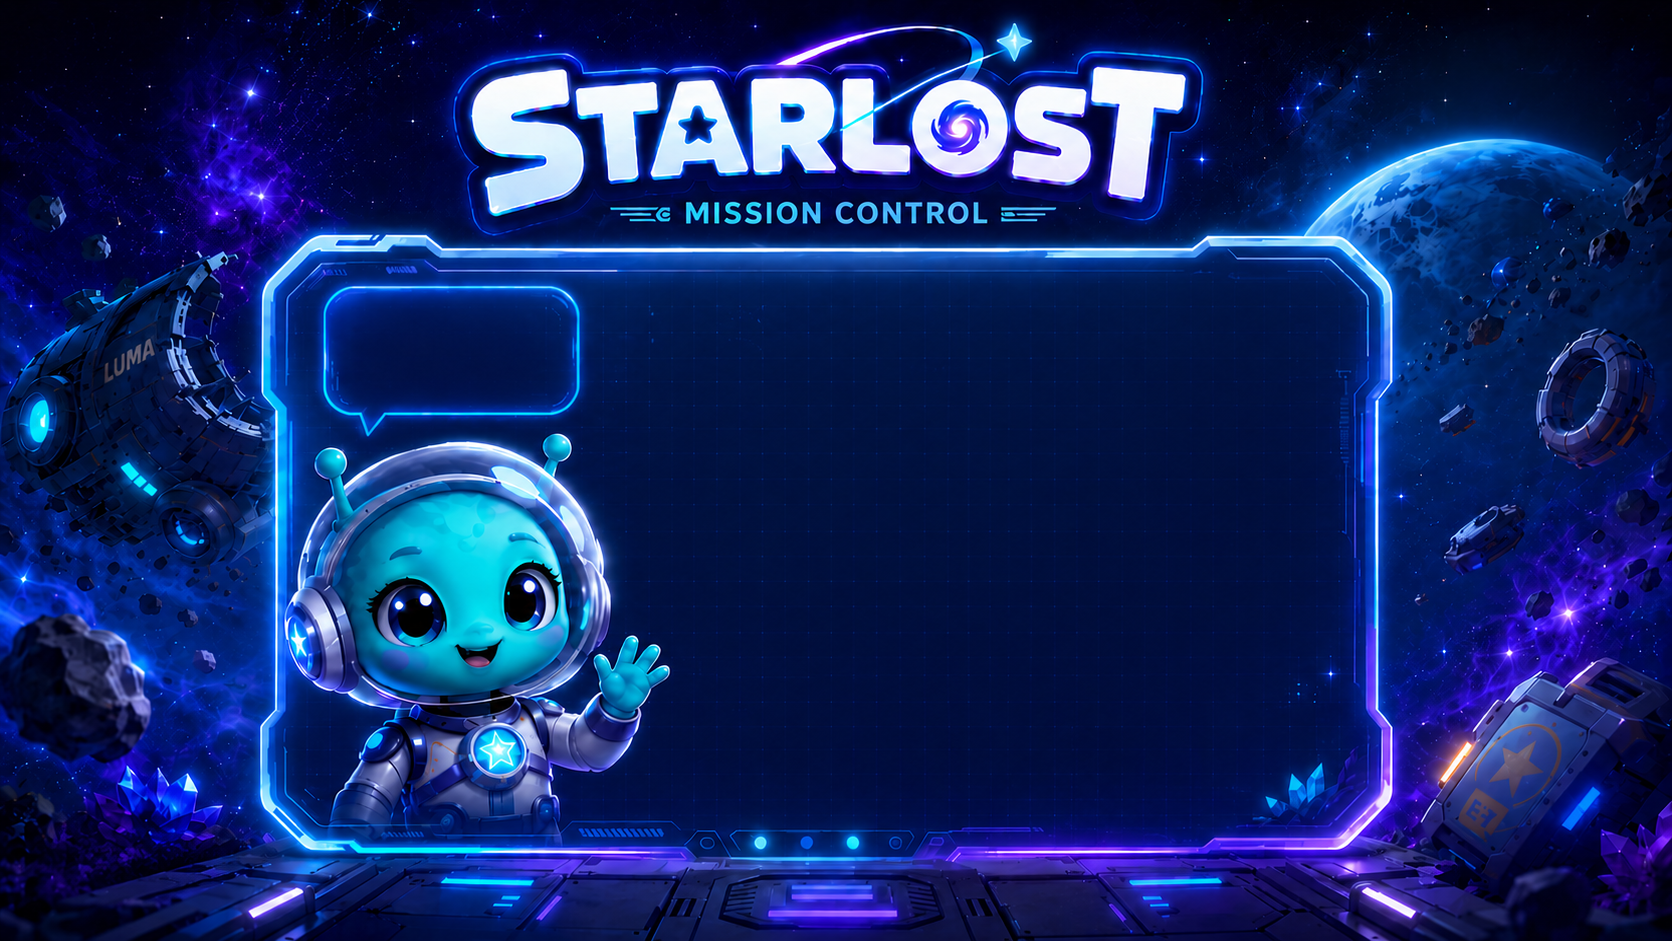
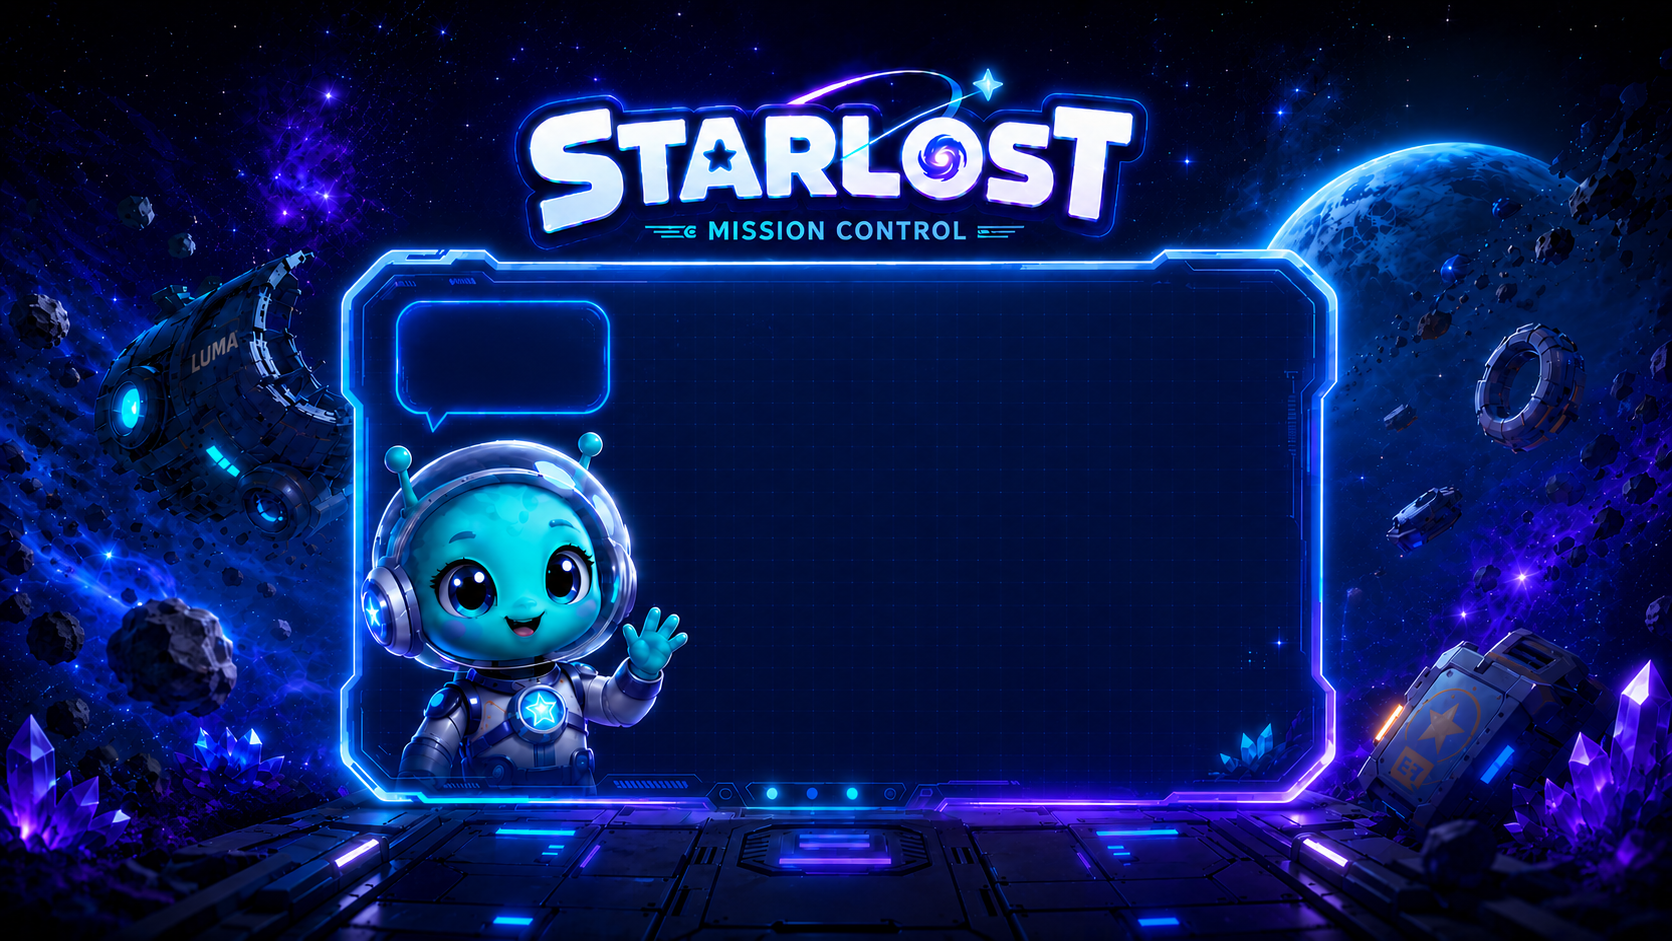
UI/UX Updates

diff --git a/src/components/menuScreens.css b/src/components/menuScreens.css
@@ -313,7 +313,7 @@
 
 .mission-bubble {
   position: absolute;
-  left: 19.8%;
+  left: 21.9%;
   top: 31.6%;
   width: 13.4%;
   margin: 0;
@@ -331,7 +331,7 @@
 .mission-status {
   position: absolute;
   top: 29.2%;
-  right: 20.2%;
+  right: 21.6%;
   color: #62ff80;
   font-size: clamp(11px, 1vw, 18px);
   font-weight: 1000;
@@ -684,5 +684,5 @@
   .start-actions { width: 62%; }
   .star-zone__badge { right: 16%; }
   .mission-form { left: 36%; width: 46%; }
-  .mission-bubble { left: 19%; width: 18%; }
+  .mission-bubble { left: 21.1%; width: 18%; }
 }
